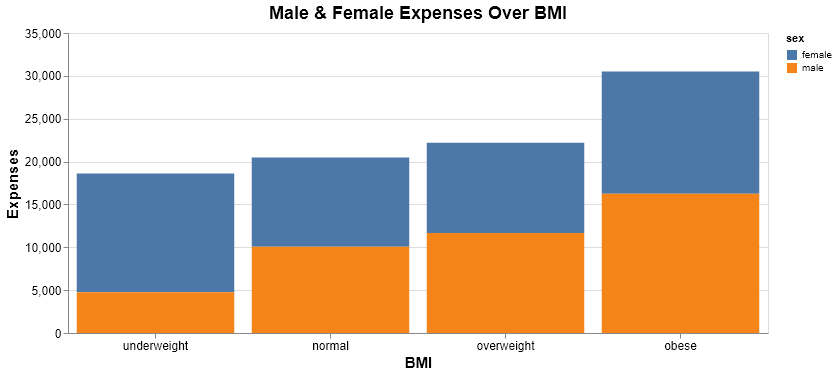
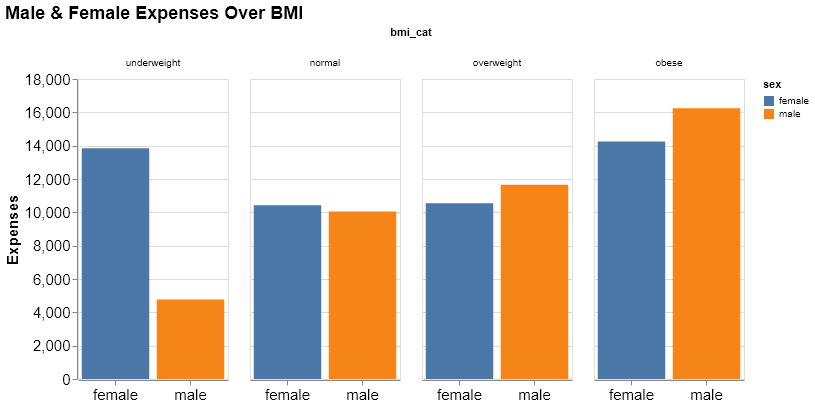
change the plot expenses VS BMI by sex The values for male and femal are not one above the other but next to each other

diff --git a/src/visualization/eda.py b/src/visualization/eda.py
@@ -108,13 +108,16 @@ def main(input_data, output_location):
 
 
     # plotting relationship between Male & Female Expenses Over BMI
+    
     exp_bmi = alt.Chart(training_df.groupby(['bmi_cat','sex']).mean().reset_index()).mark_bar().encode(
-        alt.X('bmi_cat:O', title = 'BMI', sort=['underweight', 'normal', 'overweight', 'obese'], axis=alt.Axis(labelAngle=0)),
+        alt.X('sex:N', title = '', sort=['underweight', 'normal', 'overweight', 'obese'], axis=alt.Axis(labelAngle=0)),
         alt.Y('charges:Q', title = 'Expenses'),
-        alt.Color('sex:N')
-    ).properties(title='Male & Female Expenses Over BMI', width = 700, height = 300
-    ).configure_axis(labelFontSize = 12, titleFontSize = 15
+        alt.Color('sex:N'), 
+        alt.Column('bmi_cat:N', sort=['underweight', 'normal', 'overweight', 'obese'])
+    ).properties(title='Male & Female Expenses Over BMI', width = 150, height = 300
+    ).configure_axis(labelFontSize = 15, titleFontSize = 15
     ).configure_title(fontSize = 18)
+
 
     # saving results as png
     exp_bmi.save(output_location + '/6.EXP_VS_BMI.png')
